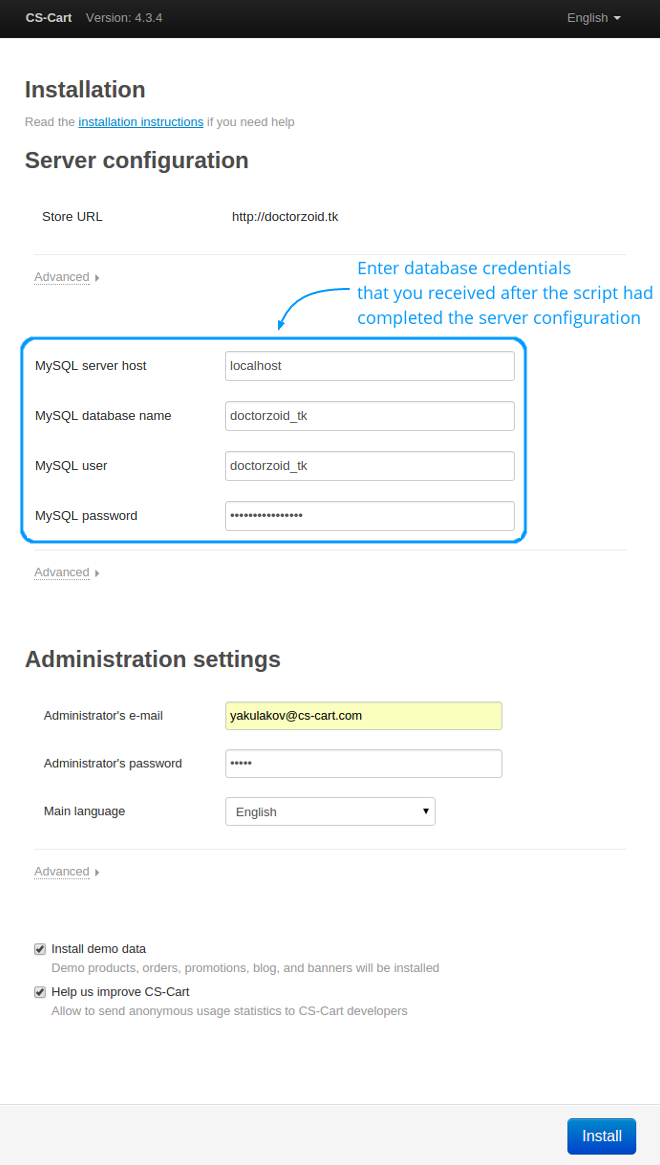
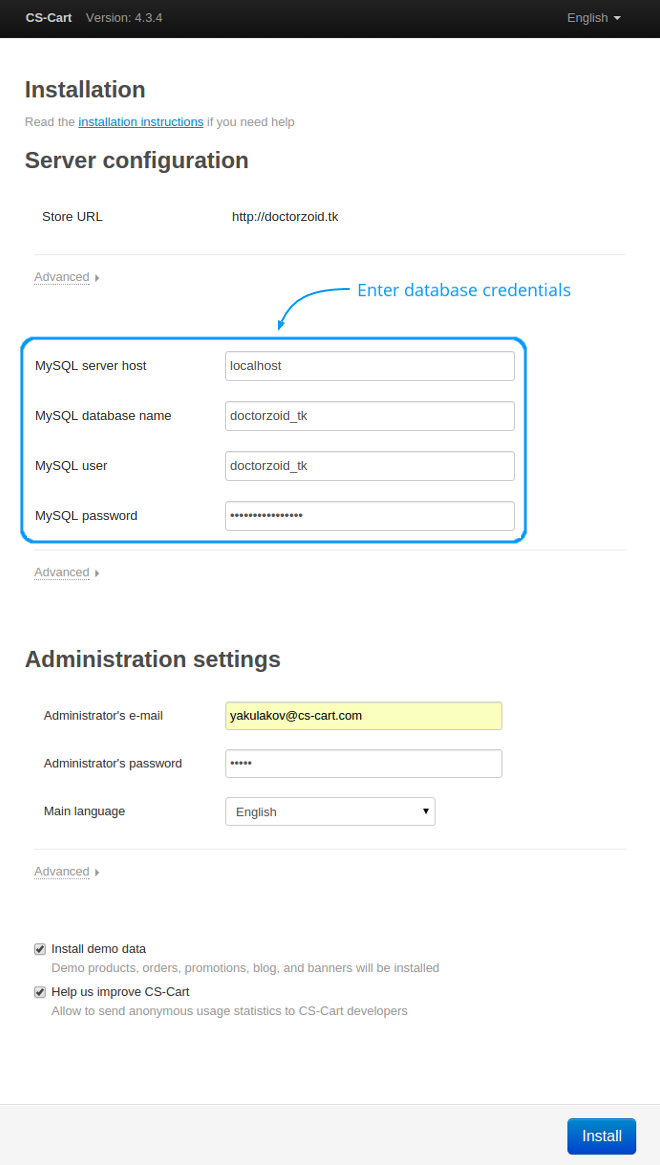
En: Install: DigitalOcean: Info on Ansible playbooks added.

Changed region(s): [[0.5455, 0.2163, 1.0, 0.2781]]

diff --git a/en/developer_guide/getting_started/server_ansible_playbooks.rst b/en/developer_guide/getting_started/server_ansible_playbooks.rst
@@ -2,52 +2,67 @@
 How To: Configure the Environment for CS-Cart/Multi-Vendor
 **********************************************************
 
-With our **Ansible Playbooks** it only takes a few commands and adjustments to the configuration file to set up the environment for CS-Cart or Multi-Vendor. The playbooks will configure the web server for you automatically.
+With our **Ansible playbooks** it only takes a few commands and adjustments to the configuration file to set up the environment for CS-Cart or Multi-Vendor. The playbooks will configure the web server for you automatically.
 
 .. note::
 
-    If you don’t want to use Ansible Playbooks, configure your server to meet :doc:`CS-Cart system requirements <../../install/system_requirements>`.
+    If you don’t want to use Ansible playbooks, configure your server manually to meet :doc:`CS-Cart system requirements </install/system_requirements>`.
 
-==================================
-Step 1. Install Ansible (v. 1.9.x)
-==================================
+=======================
+Step 1. Install Ansible
+=======================
 
 .. important::
 
     Our playbooks don’t handle package conflicts—if a package can’t be installed, you’ll get an error. That’s why we advise using the playbooks on clean OS installations only.
 
-Depending on your server’s operating system, run one of these sets of commands to install Ansible:
+Depending on your server’s operating system, run the following commands one by one to install Ansible:
 
-* **CentOS 6:**
+* On **CentOS 6:**
 
-  ::
+  .. code-block:: bash
 
-    sudo rpm -Uvh https://dl.fedoraproject.org/pub/epel/epel-release-latest-6.noarch.rpm
+      sudo yum -y install epel-release
 
-    sudo yum install -y gcc python-pip python-devel git openssl-devel libffi-devel libselinux-python
+  .. code-block:: bash
 
-    sudo pip install ansible
+      sudo yum install -y gcc git openssl-devel libffi-devel libselinux-python python-crypto python-jinja2 python-paramiko sshpass
 
+  .. code-block:: bash
 
-* **CentOS 7:**
+      sudo rpm -ihv https://releases.ansible.com/ansible/rpm/release/epel-6-x86_64/ansible-2.4.1.0-1.el6.ans.noarch.rpm
 
-  ::
+* On **CentOS 7:**
 
-    sudo rpm -Uvh https://dl.fedoraproject.org/pub/epel/epel-release-latest-7.noarch.rpm
+  .. code-block:: bash
 
-    sudo yum install -y gcc python-pip python-devel git openssl-devel libffi-devel libselinux-python
+      sudo yum -y install epel-release
 
-    sudo pip install ansible
+  .. code-block:: bash
 
-* **Ubuntu 14.04:**
+      sudo yum install -y gcc git openssl-devel libffi-devel libselinux-python python-crypto python-jinja2 python-paramiko sshpass
 
-  ::
+  .. code-block:: bash
 
-    sudo apt-get -y update
+      sudo rpm -ihv https://releases.ansible.com/ansible/rpm/release/epel-7-x86_64/ansible-2.4.1.0-1.el7.ans.noarch.rpm
 
-    sudo apt-get -y install git python-pip python-dev libffi-dev python-markupsafe libssl-dev
+* On **Ubuntu 14.04:**
 
-    sudo pip install ansible
+  .. code-block:: bash
+
+      sudo add-apt-repository -y ppa:ansible/ansible
+
+  .. code-block:: bash
+
+      sudo apt-get -y update
+
+  .. code-block:: bash
+
+      sudo apt-get -y install git python-dev libffi-dev python-markupsafe libssl-dev
+
+  .. code-block:: bash
+
+      sudo apt-get -y install ansible=2.4.1.0-1ppa~trusty
 
 ===========================
 Step 2. Configure main.json
@@ -55,33 +70,109 @@ Step 2. Configure main.json
 
 Once you have installed Ansible, you can download and run one of our playbooks to configure the server. Follow these steps:
 
-#. Clone the repository:
+#. Clone the repository with our playbooks, so that you can run them:
 
-   ::
+   .. code-block:: bash
 
-     mkdir ~/playbooks && git clone https://github.com/cscart/server-ansible-playbooks ~/playbooks
+       mkdir ~/playbooks && git clone https://github.com/cscart/server-ansible-playbooks ~/playbooks
 
-#. Create **main.json**:
+   The command above creates a copy of `this repository <https://github.com/cscart/server-ansible-playbooks>`_ in the home directory on your server. That way you'll always be able to find the directory with the playbooks by simply using the ``cd ~/playbooks`` command.
 
-   ::
+#. Create **main.json**, a file that will be used by our playbooks to configure the environment.
 
-     cp ~/playbooks/config/advanced.json  ~/playbooks/config/main.json
+   .. code-block:: bash
 
-#. Edit **~/playbooks/config/main.json**:
+       cp ~/playbooks/config/advanced.json  ~/playbooks/config/main.json
 
-   * ``stores_dir``—your project directory
+   The command above simply copies an existing file called **advanced.json** and pastes it as **main.json** in the same directory (*~/playbooks/config*). At this point, the file contains only the example configuration that you'll need to change.
 
-   * ``stores``—an array of projects
+#. Edit the **main.json** file in the *~/playbooks/config/* directory on your server according to your needs. By default, the file looks like this:
 
-     * ``example.com``—the domain name of a project
+   .. code-block:: json
 
-     * ``storefronts``—an array with the domain names of the storefronts. If there are no storefronts, leave the array empty. For example: ``"storefronts": []``
+       {
+           "stores_dir": "/var/www/html",
+           "stores":
+           {
+               "example.com":
+               {
+                   "cart":
+                   {
+                       "storefronts": ["example.org", "example.ru"]
+                   },
+                   "database":
+                   {
+                       "name": "cscart",
+                       "user": "cscart",
+                       "password": "cscart"
+                   }
+               }
+           }
+       }
 
-     * ``database``—the credentials of the database that will be created by the playbook.
+   * ``stores_dir``—the directory that will contain the folders with your CS-Cart installations.
 
-     .. warning::
+   * ``stores``—an array with the data of your CS-Cart installations.
 
-         **DON'T** set ``root`` as a user here, or else ``root`` won't be able to access or create any other databases.
+     * ``example.com``—the domain name of your CS-Cart installation. It is also the name of the folder where that installation will be located. In this example we'll have one CS-Cart installation located in */var/www/html/example.com*.
+
+     * ``storefronts``—an array with the domain names of :doc:`additional CS-Cart storefronts </user_guide/stores/index>`. If there are no additional storefronts, leave the array empty. For example: ``"storefronts": []``.
+
+     * ``database``—the credentials of the MySQL database that will be created by the playbook for that particular CS-Cart installation:
+
+       * ``name``—the name of the database.
+
+       * ``user``—the name of the MySQL user account that will work with the database.
+
+         .. warning::
+
+             **DON'T** set ``root`` as a user, or else ``root`` won't be able to access or create any other databases.
+
+       * ``password``—the password of the MySQL user specified above.
+
+   If you work with your server via SSH (for example, if you are following :doc:`our guide to install CS-Cart on DigitalOcean </install/digitalocean>`), then you can use a command-line text editor to modify **main.json** according to your needs. We recommend **nano**, because it's the easiest to use:
+
+   #. On CentOS you'll need to install **nano** first. Run the following command:
+
+      .. code-block:: bash
+
+          yum install nano
+
+   #. Open the file you want to edit (if you use Ubuntu, you just start with this command, without installing **nano**):
+
+      .. code-block:: bash
+
+          nano ~/playbooks/config/main.json
+
+   #. Now you'll be able to edit the file. Navigate around it with arrow keys and work with the file like you usually do in a text editor. The example below is what we got after editing **main.json** for installing CS-Cart on DigitalOcean. That configuration is intended for a single CS-Cart or Multi-Vendor installation with no additional storefronts.
+
+      .. important::
+ 
+          Replace the domain name with your own and change the database credentials that will be created.
+
+      .. code-block:: json
+
+          {
+              "stores_dir": "/var/www/html",
+              "stores":
+              {
+                  "doctorzoid.tk":
+                  {
+                      "cart":
+                      {
+                          "storefronts": []
+                      },
+                      "database":
+                      {
+                          "name": "doctorzoid_tk",
+                          "user": "doctorzoid_tk",
+                          "password": "0NkpV5t9VcUYpKtM"
+                      }
+                  }
+              }
+          }
+
+   #. Press **Ctrl + X** to exit the editor. You'll be asked if you want to save the changes. Press the **Y** button to do so, then press **Enter** to confirm the name of the file that you want to modify.
 
 ======================
 Step 3. Run a Playbook
@@ -91,27 +182,27 @@ Depending on the PHP version and the web server you want to use, **run one of th
 
 * **lamp.yml**: *nginx + apache + mysql + php5.6*
 
-  ::
+  .. code-block:: bash
 
-    cd ~/playbooks/ && ansible-playbook -e @config/main.json -c local -i inventory lamp.yml
+      cd ~/playbooks/ && ansible-playbook -e @config/main.json -c local -i inventory lamp.yml
 
 * **lemp.yml**: *nginx + mysql + php5.6*
 
-  ::
+  .. code-block:: bash
 
-    cd ~/playbooks/ && ansible-playbook -e @config/main.json -c local -i inventory lemp.yml
+      cd ~/playbooks/ && ansible-playbook -e @config/main.json -c local -i inventory lemp.yml
 
 * **lemp7.yml**: *nginx + mysql + php7.0*
 
-  ::
+  .. code-block:: bash
 
-    cd ~/playbooks/ && ansible-playbook -e @config/main.json -c local -i inventory_php7 lemp7.yml
+      cd ~/playbooks/ && ansible-playbook -e @config/main.json -c local -i inventory_php7 lemp7.yml
 
 * **lvemp7.yml**: *varnish + nginx + mysql + php7.0*
 
-  ::
+  .. code-block:: bash
 
-    cd ~/playbooks/ && ansible-playbook -e @config/main.json -c local -i inventory_varnish lvemp7.yml
+      cd ~/playbooks/ && ansible-playbook -e @config/main.json -c local -i inventory_varnish lvemp7.yml
 
 .. important::
 

diff --git a/en/install/digitalocean.rst b/en/install/digitalocean.rst
@@ -4,9 +4,9 @@ How To: Install CS-Cart on DigitalOcean Hosting
 
 .. note::
 
-    You'll need to use the command line and might have to install an SSH client.
+    You'll need to use the command line and may have to install SSH and SFTP clients to follow this guide.
 
-In this tutorial, you will learn how to install CS-Cart on a DigitalOcean server. DigitalOcean is an SSD cloud hosting that offers virtual private servers. 
+In this tutorial you will learn how to install CS-Cart on a DigitalOcean server. DigitalOcean is an SSD cloud hosting that offers virtual private servers. 
 
 We will also use a script that will automatically configure the server on DigitalOcean cloud hosting `for maximum CS-Cart speed <http://blog.cs-cart.com/2015/06/01/five-server-tweaks-to-get-maximum-speed-out-of-cs-cart-4-3-1/>`_.
 
@@ -34,7 +34,7 @@ Step 1. Prepare Your Hosting
     :align: center
     :alt: Select a region for your server.
 
-1.5. Select your server’s operating system. We recommend CentOS 7.2 x64:
+1.5. Select your server’s operating system. We recommend CentOS 7 x64:
 
 .. image:: img/digitalocean/4_server_os.png
     :align: center
@@ -46,10 +46,13 @@ Take a coffee break — your hosting will be ready in a couple of minutes.
 
 1.7. Assign the domain name of your future store to your new droplet using `these official instructions <https://www.digitalocean.com/community/tutorials/how-to-set-up-a-host-name-with-digitalocean>`_.
 
+.. note::
+
+    To test this instruction, we temporarily registered a free domain in the TK zone: *doctorzoid.tk*. Naturally, as you follow this guide you'll need to replace mentions of *doctorzoid.tk* with the name of your domain.
+
 .. image:: img/digitalocean/5_assign_domain.png
     :align: center
     :alt: Assigning a domain name to the droplet.
-
 
 =============================
 Step 2. Configure Your Server
@@ -57,7 +60,7 @@ Step 2. Configure Your Server
 
 .. note::
 
-    You’ll need an SSH client to connect to your server, execute the configuration script, and install CS-Cart. Here are free, commonly-used SSH-clients:
+    You’ll need an SSH client to connect to your server, execute the configuration script, and install CS-Cart. Here are free, commonly-used SSH clients:
 
     * Mac OS X: Terminal, iTerm 2
     * Linux: Terminal, KDE Konsole, XTerm
@@ -67,7 +70,7 @@ Step 2. Configure Your Server
 
 2.1. DigitalOcean has sent you an email with your server’s credentials to the address you had signed up with. Check your mailbox for the “Your New Droplet” email from support@support.digitalocean.com.
 
-2.2. Open the SSH-client on your computer and connect to your server using the username, IP address, and the password from the email:
+2.2. Open the SSH client on your computer and connect to your server using the username, IP address, and the password from the email:
 
 .. image:: img/digitalocean/6_connect_ssh.png
     :align: center
@@ -81,22 +84,13 @@ You have to change the password only at the first connection to your server. Ple
     :align: center
     :alt: Resetting your server password.
 
-2.4. Execute the script for automatic server configuration:
+2.4. Execute the script for automatic server configuration :doc:`as described in this article </developer_guide/getting_started/server_ansible_playbooks>`.
 
-     .. code-block:: bash
+.. note::
 
-         curl -sL http://cartoma.tk/installer | bash -s -- [your domain name]
+    In that article we advise modifying a text file via a command-line text editor (it's the quickest way). Instead you may want to use an SFTP client (like FileZilla) to download the file, change it on your machine, and then re-upload it to the droplet. For more information on how to use FileZilla with DigitalOcean, please refer to `this tutorial by DigitalOcean community <https://www.digitalocean.com/community/tutorials/how-to-use-filezilla-to-transfer-and-manage-files-securely-on-your-vps>`_.
 
-.. image:: img/digitalocean/8_script.png
-    :align: center
-    :alt: Connecting to your server via SSH.
-
-2.5. When the script completes the server configuration, you will see the path to your future store directory and database information. Save this data as you will need it later.
-
-.. image:: img/digitalocean/9_installer_output.png
-    :align: center
-    :alt: Connecting to your server via SSH.
-
+2.5. When the script completes the server configuration, you will be able to install CS-Cart.
 
 =======================
 Step 3. Install CS-Cart
@@ -118,6 +112,9 @@ Step 3. Install CS-Cart
 
          wget "https://www.cs-cart.com/index.php?dispatch=pages.get_trial&page_id=297&edition=ultimate" -O cscart.zip
 
+     .. note::
+
+         If you see the **Command not found** message on CentOS, then install **wget** first by using this command: ``yum install wget``.
 
 3.3. Unzip the CS-Cart installation package:
 
@@ -136,7 +133,7 @@ Step 3. Install CS-Cart
          find images -type f -print0 | xargs -0 chmod 644
          find var -type f -print0 | xargs -0 chmod 644
 
-3.5. Open your store’s URL in your browser and click [install]:
+3.5. Open your store’s URL in your browser and click **[install]**:
 
 .. image:: img/digitalocean/11_install_cscart.png
     :align: center
@@ -148,11 +145,10 @@ Step 3. Install CS-Cart
     :align: center
     :alt: CS-Cart License Agreement.
 
-3.7. Enter your MySQL information (see Step 2.5), define admin credentials, and click Install:
+3.7. Enter your MySQL information (see Step 2.4), define admin credentials, and click **Install**:
 
 .. image:: img/digitalocean/13_installation_details.png
     :align: center
-    :alt: Enter the information from Step 2.5 to the fields.
+    :alt: Enter the information from Step 2.4 to the fields.
 
 3.8. Congratulations! Now you have a fast CS-Cart store on DigitalOcean hosting.
-
